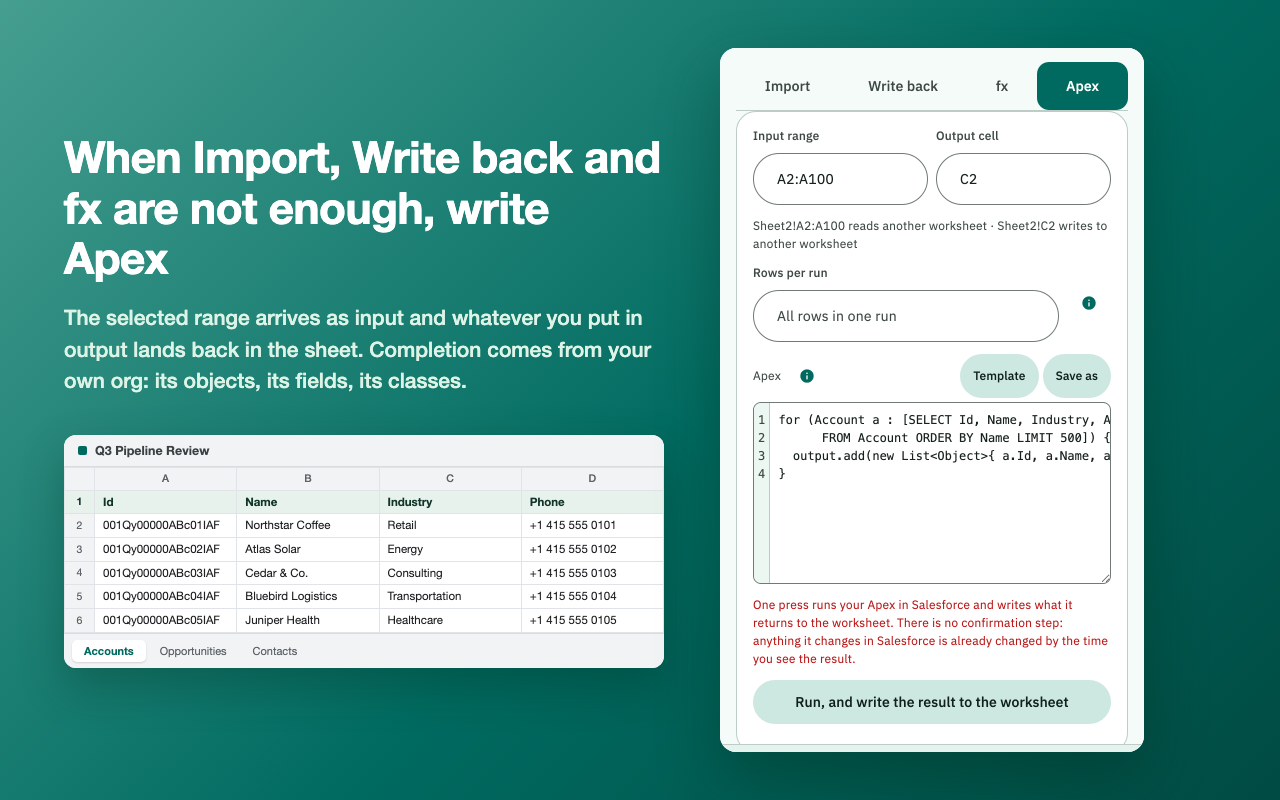
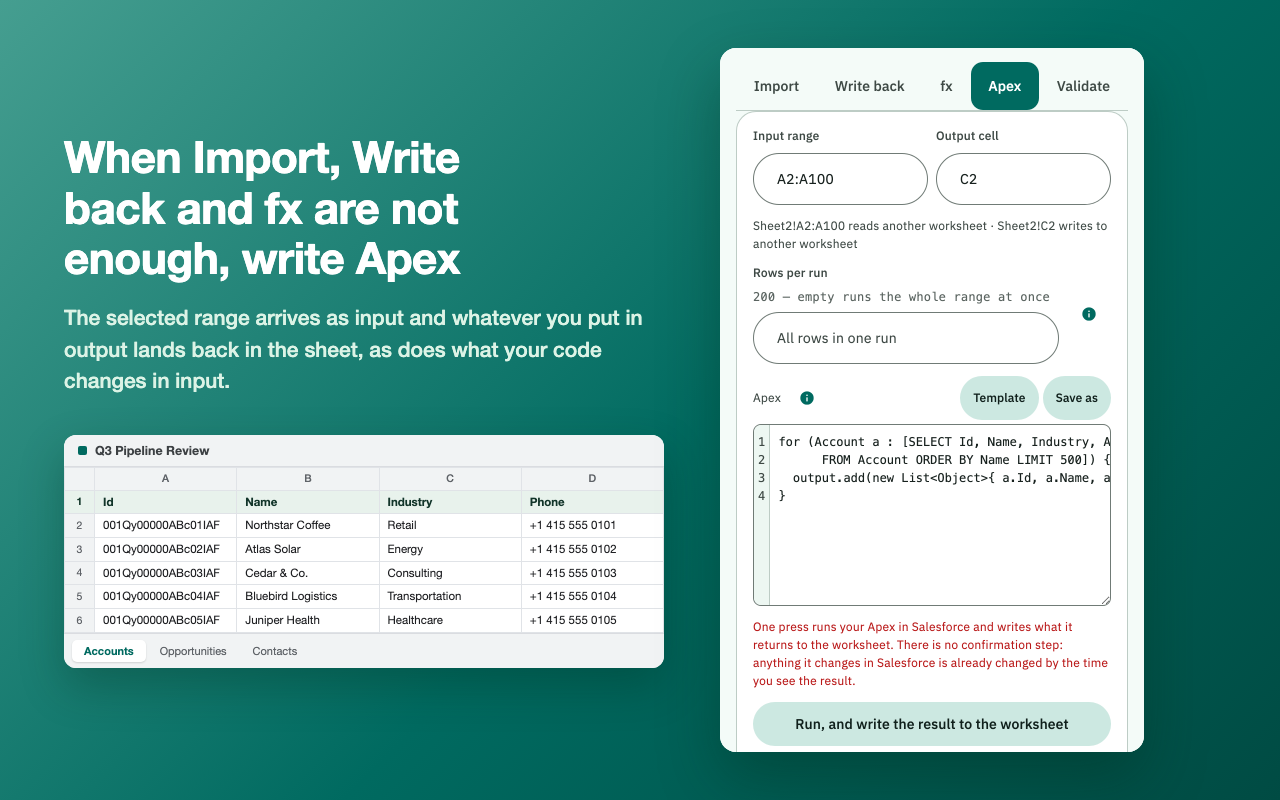
SheetConnect: an Agent section with its five frames, and a current Apex frame
"Ask the Agent, in your own words", marked as coming in version 0.11.0: six
points (the right object, cards never actions, skills, metadata only, free to
start, your language) and frames 12 to 16. Frame 08 is recaptured without the
code-completion promise.

diff --git a/apps/sheetconnect-for-salesforce/index.html b/apps/sheetconnect-for-salesforce/index.html
@@ -38,6 +38,27 @@
     </header>
 
     <div class="content">
+      <section id="agent" aria-labelledby="agent-title">
+        <span class="chip tertiary-container release-pill">Coming in version 0.11.0</span>
+        <h2 id="agent-title">Ask the Agent, in your own words</h2>
+        <p>An optional chat beside the tools, off until you turn it on. Ask for what you need, such as &ldquo;import open opportunities closing this quarter&rdquo; or &ldquo;put each account's Id next to its name&rdquo;, and the Agent finds the objects and fields, checks the query or formula against your sheet, and prepares the work as a card in the chat. Nothing runs until you press Run, and a write to Salesforce still waits for your confirmation.</p>
+        <div class="feature-grid">
+          <article class="feature"><h3>It starts from the right object</h3><p>Each chat begins from its main object: one you opened lately, or one found by name. When two could be meant, the Agent asks with buttons instead of guessing, and you can change it later.</p></article>
+          <article class="feature"><h3>Cards, never actions</h3><p>Imports, lookups and roll-ups, write-backs, validation rules and Apex come back as cards, each checked against your sheet first. You run them; the Agent never does.</p></article>
+          <article class="feature"><h3>Skills for everyday jobs</h3><p><code>/import</code>, <code>/lookup</code>, <code>/update</code> and <code>/check</code> guide the common tasks, and you can write skills of your own.</p></article>
+          <article class="feature"><h3>Metadata only</h3><p>It reads names, labels and counts. No record's or cell's value is sent, and your Salesforce session and Google access stay in the browser.</p></article>
+          <article class="feature"><h3>Free to start</h3><p>Free within an allowance that renews every 5 hours and every 30 days; the allowance may change.</p></article>
+          <article class="feature"><h3>In your language</h3><p>Ask in English, Japanese or another language and it answers in the one you wrote in, reading your org's own labels as it goes.</p></article>
+        </div>
+        <div class="gallery">
+          <figure class="wide"><img src="img/12-ask-the-agent.png" width="1280" height="800" decoding="async" alt="The Agent chat after a /import request, with the query it checked and an import card waiting for Run"><figcaption>Ask in your own words, or start from a skill such as /import: the Agent finds the object and fields, counts the query and leaves an import card.</figcaption></figure>
+          <figure><img src="img/13-the-agent-asks-which-object.png" width="1280" height="800" decoding="async" alt="The Agent asking which object a question is about, with a button for each candidate"><figcaption>When two objects could fit, it asks with buttons instead of guessing.</figcaption></figure>
+          <figure><img src="img/14-lookups-as-a-card.png" width="1280" height="800" decoding="async" alt="An fx card with a VLOOKUP formula and its check: rows found, not found, and cells to write"><figcaption>Lookups and roll-ups come as an fx card, checked against the sheet before anything is written.</figcaption></figure>
+          <figure><img src="img/15-write-back-waits-for-you.png" width="1280" height="800" decoding="async" alt="A write-back card from /update showing its mapping and asking to confirm the update of 24 records"><figcaption>/update checks every row, makes a backup worksheet, and waits for your confirmation.</figcaption></figure>
+          <figure><img src="img/16-skills-and-a-free-allowance.png" width="1280" height="800" decoding="async" alt="The Agent's skills menu open over an empty chat, with the free allowance bars below the message box"><figcaption>Skills for the everyday jobs, and a free allowance shown under the message box.</figcaption></figure>
+        </div>
+      </section>
+
       <section aria-labelledby="features-title">
         <h2 id="features-title">Move Salesforce data in and out of a worksheet</h2>
         <div class="feature-grid">
